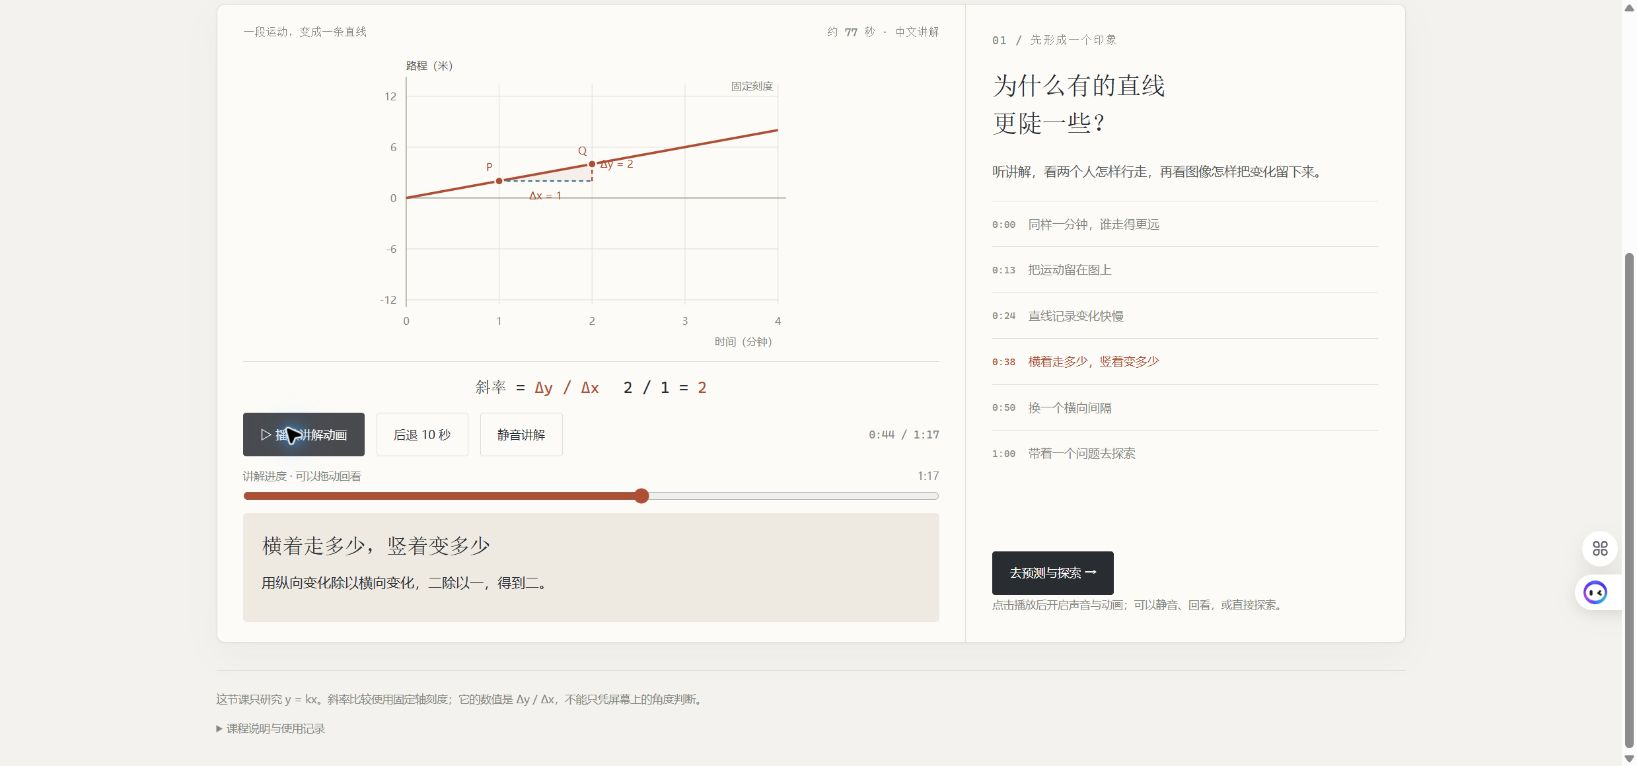
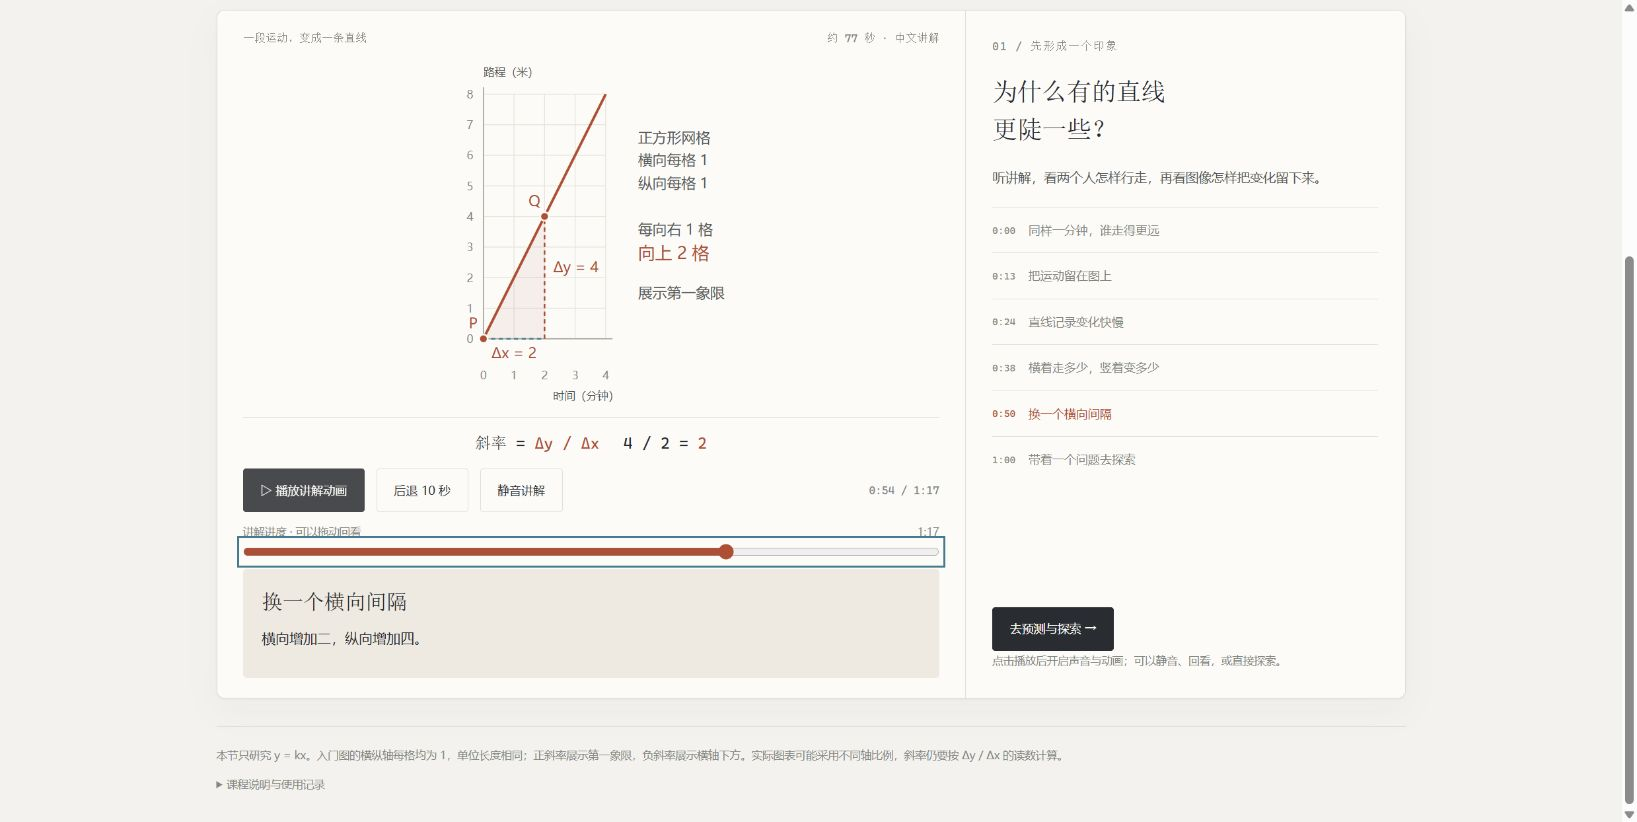
Use equal axis units for slope lesson diagrams

diff --git a/public/slope.js b/public/slope.js
@@ -1,4 +1,4 @@
-import {DURATION,beats,animationAt,reading,tasks,taskMatches,questions,mastery} from './slope-model.js';
+import {DURATION,beats,animationAt,reading,plotGeometry,tasks,taskMatches,questions,mastery} from './slope-model.js';
 
 const root=document.getElementById('lesson'),KEY='math-unfolded-slope-v1';
 let mode='watch',time=0,playing=false,frame=0,k=2,dx=1,task=0,prediction=null,playRequest=0,starting=false;
@@ -16,25 +16,28 @@ const line=(x1,y1,x2,y2,color,width=1,dash='')=>`<line x1="${x1}" y1="${y1}" x2=
 const txt=(x,y,t,cls='',anchor='middle')=>`<text x="${x}" y="${y}" text-anchor="${anchor}" class="${cls}">${t}</text>`;
 const red='#ad4e35',blue='#467c8d',grid='#e4e3dc';
 function plot(slope,interval=1,{motion=false,comparison=false,triangle=true,reveal=1,horizontal=1,vertical=1}={}){
-  const X=x=>56+x*115,Y=y=>178-y*10.5;
+  const g=plotGeometry(slope),X=g.x,Y=g.y,below=slope<0;
   const m=reading(slope,interval);let s='';
-  for(let x=0;x<=4;x++){s+=line(X(x),38,X(x),310,grid);s+=txt(X(x),335,x);}
-  const yticks=[-12,-6,0,6,12];
-  for(const y of yticks){s+=line(56,Y(y),516,Y(y),grid);s+=txt(44,Y(y)+5,y,'','end');}
-  s+=line(56,Y(0),526,Y(0),'#a1a197',1.2)+line(56,28,56,313,'#a1a197',1.2);
-  s+=txt(516,360,motion?'时间（分钟）':'x','','end')+txt(56,19,motion?'路程（米）':'y','axis-title','start');
-  if(comparison)s+=line(X(0),Y(0),X(4*reveal),Y(4*reveal),blue,2.5)+txt(X(3.65),Y(3.65)-13,'每分钟 1 米','','end')+`<circle cx="${X(4*reveal)}" cy="${Y(4*reveal)}" r="4" fill="${blue}"/>`;
-  s+=line(X(0),Y(0),X(4*reveal),Y(slope*4*reveal),red,3);
-  if(comparison)s+=`<circle cx="${X(4*reveal)}" cy="${Y(slope*4*reveal)}" r="4" fill="${red}"/>`;
+  for(let x=0;x<=4;x++){s+=line(X(x),g.top,X(x),g.bottom,grid);s+=txt(X(x),below?Y(0)-14:g.bottom+48,x);}
+  for(let y=g.yMin;y<=g.yMax;y++){s+=line(g.left,Y(y),g.right,Y(y),grid);s+=txt(g.left-12,Y(y)+5,n(y),'','end');}
+  s+=line(g.left,Y(0),g.right+8,Y(0),'#a1a197',1.2)+line(g.left,g.top-8,g.left,g.bottom+6,'#a1a197',1.2);
+  s+=txt(g.right+16,below?Y(0)-14:g.bottom+72,motion?'时间（分钟）':'x','axis-title',below?'start':'end')+txt(below?g.left-42:g.left,19,motion?'路程（米）':'y','axis-title','start');
+  if(comparison){s+=line(X(0),Y(0),X(4*reveal),Y(4*reveal),blue,2.5)+`<circle cx="${X(4*reveal)}" cy="${Y(4*reveal)}" r="4" fill="${blue}"/>`;}
+  const endX=Math.min(4,Math.abs(slope)>0?8/Math.abs(slope):4)*reveal;
+  s+=line(X(0),Y(0),X(endX),Y(slope*endX),red,3);
+  if(comparison)s+=`<circle cx="${X(endX)}" cy="${Y(slope*endX)}" r="4" fill="${red}"/>`;
   if(triangle){
-    s+=`<path d="M${X(1)},${Y(m.p.y)}H${X(1+interval)}V${Y(m.q.y)}Z" fill="${red}" opacity="${.07*Math.min(horizontal,vertical)}"/>`;
-    s+=line(X(1),Y(m.p.y),X(1+interval*horizontal),Y(m.p.y),blue,2,'5 4')+line(X(1+interval),Y(m.p.y),X(1+interval),Y(m.p.y+(m.q.y-m.p.y)*vertical),red,2,'5 4');
-    if(horizontal===1)s+=txt(X(1+interval/2),Y(m.p.y)+23,`Δx = ${n(interval)}`,'point-text');
-    if(vertical===1)s+=txt(X(1+interval)+10,(Y(m.p.y)+Y(m.q.y))/2-6,`Δy = ${n(m.dy)}`,'point-text','start');
-    for(const [label,p] of [['P',m.p],['Q',m.q]])s+=`<circle cx="${X(p.x)}" cy="${Y(p.y)}" r="5" fill="${red}" stroke="#fcfbf8" stroke-width="2"/>`+txt(X(p.x)-12,Y(p.y)-12,label,'point-text');
+    s+=`<path d="M${X(m.p.x)},${Y(m.p.y)}H${X(m.q.x)}V${Y(m.q.y)}Z" fill="${red}" opacity="${.07*Math.min(horizontal,vertical)}"/>`;
+    s+=line(X(m.p.x),Y(m.p.y),X(interval*horizontal),Y(m.p.y),blue,2,'5 4')+line(X(m.q.x),Y(m.p.y),X(m.q.x),Y(m.p.y+m.dy*vertical),red,2,'5 4');
+    if(horizontal===1)s+=txt(X(interval/2),Y(m.p.y)+23,`Δx = ${n(interval)}`,'point-text');
+    if(vertical===1)s+=txt(X(m.q.x)+10,(Y(m.p.y)+Y(m.q.y))/2-6,`Δy = ${n(m.dy)}`,'point-text','start');
+    for(const [label,p] of [['P',m.p],['Q',m.q]])s+=`<circle cx="${X(p.x)}" cy="${Y(p.y)}" r="5" fill="${red}" stroke="#fcfbf8" stroke-width="2"/>`+txt(X(p.x)-(below&&label==='P'?30:12),Y(p.y)+(below&&label==='P'?5:-12),label,'point-text');
   }
-  s+=txt(510,44,motion?'固定刻度':'一般坐标图 · 固定刻度','','end');
-  return `<svg class="slope-visual" viewBox="0 0 570 380" role="img" aria-label="${motion?'路程时间图':'坐标图'}：斜率 ${slope}，横向变化 ${interval}，纵向变化 ${n(m.dy)}。${comparison?'青线斜率为 1。':''}">${s}</svg>`;
+  s+=txt(270,97,'正方形网格','scale-note','start')+txt(270,124,'横向每格 1','scale-note','start')+txt(270,151,'纵向每格 1','scale-note','start');
+  s+=txt(270,205,'每向右 1 格','scale-note','start')+txt(270,234,slope===0?'高度不变':`向${below?'下':'上'} ${n(Math.abs(slope))} 格`,'scale-value','start');
+  if(comparison)s+=txt(270,280,'青线：斜率 1','scale-note','start')+txt(270,307,'红线：斜率 2','scale-note','start');
+  else s+=txt(270,280,below?'展示横轴下方':'展示第一象限','scale-note','start');
+  return `<svg class="slope-visual equal-unit" viewBox="0 0 430 420" role="img" aria-label="${motion?'路程时间图':'坐标图'}：横纵每格均为 1，单位长度相同。斜率 ${slope}，横向变化 ${n(interval)}，纵向变化 ${n(m.dy)}。${below?'展示横轴下方。':''}${comparison?'青线斜率为 1。':''}">${s}</svg>`;
 }
 function walkers(mins,t){
   let s='';

diff --git a/public/slope.html b/public/slope.html
@@ -16,7 +16,7 @@
     <div class="pilot-heading"><div><div class="eyebrow">一节小课 · 一个清楚的理解</div><h1>斜率，究竟在说什么<span>？</span></h1><p>先看见变化，再亲手理解它。</p></div><div class="lesson-meta">初中 · 一次函数<br>约 8 分钟 / 截距固定为 0</div></div>
     <nav class="learning-steps" aria-label="学习步骤"><button data-mode="watch" aria-current="step"><span>01</span> 看动画</button><button data-mode="explore"><span>02</span> 预测与探索</button><button data-mode="check"><span>03</span> 检验理解</button></nav>
     <div id="lesson"></div>
-    <footer class="pilot-footer"><p>这节课只研究 y = kx。斜率比较使用固定轴刻度；它的数值是 Δy / Δx，不能只凭屏幕上的角度判断。</p><details><summary>课程说明与使用记录</summary><p>讲解、图形、动画和练习为本项目独立创作，未复制第三方教材正文、插图或题库。中文旁白使用 AI 合成，字幕按实测句级音频时间同步。本节是学习体验试点，不宣称已验证教学效果。进度仅保存在当前浏览器，可在检验页清除。</p></details></footer>
+    <footer class="pilot-footer"><p>本节只研究 y = kx。入门图的横纵轴每格均为 1，单位长度相同；正斜率展示第一象限，负斜率展示横轴下方。实际图表可能采用不同轴比例，斜率仍要按 Δy / Δx 的读数计算。</p><details><summary>课程说明与使用记录</summary><p>讲解、图形、动画和练习为本项目独立创作，未复制第三方教材正文、插图或题库。中文旁白使用 AI 合成，字幕按实测句级音频时间同步。本节是学习体验试点，不宣称已验证教学效果。进度仅保存在当前浏览器，可在检验页清除。</p></details></footer>
   </main>
   <noscript><p class="noscript">本课程的动画和互动需要启用 JavaScript。斜率表示纵向变化与非零横向变化的比值；对 y = kx，斜率就是 k。</p></noscript>
 </body>

diff --git a/public/slope.css b/public/slope.css
@@ -2,3 +2,4 @@
 @media(max-width:900px){.pilot{padding:30px 22px}.pilot-workspace{grid-template-columns:1fr}.lesson-sidebar{border-left:0;border-top:1px solid var(--line)}.lesson-sidebar ol{display:grid;grid-template-columns:1fr 1fr;gap:0 20px}.check-layout{grid-template-columns:1fr}.check-summary{position:static}.lesson-sidebar .aside-bottom{margin-top:0}.lesson-meta{display:none}}
 @media(max-width:520px){.pilot{padding:25px 16px}.pilot-heading{margin-bottom:22px}.pilot-heading h1{font-size:31px}.learning-steps button{font-size:11px;padding:13px 3px}.learning-steps button span{margin-right:5px}.visual-column{padding:16px 12px}.lesson-sidebar{padding:23px 20px}.caption{padding:14px;min-height:140px;font-size:13px}.caption h2{font-size:19px}.transport{gap:7px;flex-wrap:wrap}.pilot button.action{padding:10px 13px}.clock{font-size:10px}.formula-strip{font-size:14px;gap:12px}.slope-visual text{font-size:16px}.slope-visual .axis-title{font-size:16px}.slope-visual .point-text{font-size:16px}.slope-visual .track-name{font-size:16px}.lesson-sidebar ol{grid-template-columns:1fr}.quiz-card,.check-summary{padding:21px}.prediction{padding:17px}.pilot-heading p{font-size:13px}}
 .visual-column .slope-visual{max-height:310px}.visual-column .caption{min-height:110px}@media(max-width:520px){.visual-column .slope-visual{max-height:none}}
+.visual-column .slope-visual.equal-unit{max-height:360px}.equal-unit .scale-note{font-size:17px;fill:var(--text)}.equal-unit .scale-value{font-size:20px;fill:var(--red)}.equal-unit .point-text{font-size:17px}@media(max-width:520px){.visual-column .slope-visual.equal-unit{max-height:none}.equal-unit .scale-note{font-size:18px}.equal-unit .scale-value{font-size:21px}.equal-unit .point-text{font-size:18px}}

diff --git a/public/slope-model.js b/public/slope-model.js
@@ -18,7 +18,15 @@ export function animationAt(time){
 export function beatAt(time){const t=Math.min(DURATION,Math.max(0,Number(time)||0));return beats.find(b=>t<b.end)||beats.at(-1);}
 export function reading(k,dx=1){
   if(!Number.isFinite(k)||!Number.isFinite(dx)||dx<=0||dx>3)throw new RangeError('Invalid slope or interval');
-  return {k,dx,dy:k*dx,p:{x:1,y:k},q:{x:1+dx,y:k*(1+dx)},values:[0,1,2,3,4].map(x=>({x,y:k*x}))};
+  return {k,dx,dy:k*dx,p:{x:0,y:0},q:{x:dx,y:k*dx},values:[0,1,2,3,4].map(x=>({x,y:k*x}))};
+}
+// Both axes use the same SVG distance per numerical unit. Negative slopes
+// show the region below the x-axis without changing that unit distance.
+export function plotGeometry(k){
+  const unit=36,left=88,top=40,yMin=k<0?-8:0,yMax=k<0?0:8;
+  const originY=top+yMax*unit;
+  return {unit,left,top,right:left+4*unit,bottom:top+8*unit,yMin,yMax,
+    x:x=>left+x*unit,y:y=>originY-y*unit};
 }
 export const tasks=[
   {target:2,title:'让 y 每次增加 2',hint:'x 每增加 1，y 就增加 2。请调整斜率。',explain:'k = 2：横向增加 1，纵向增加 2。'},
